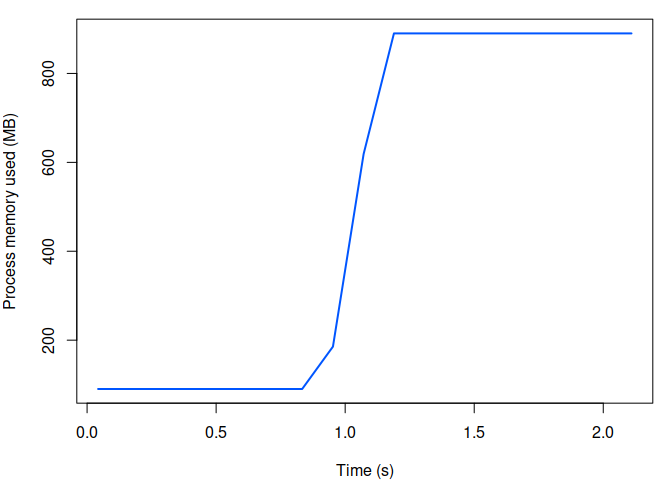
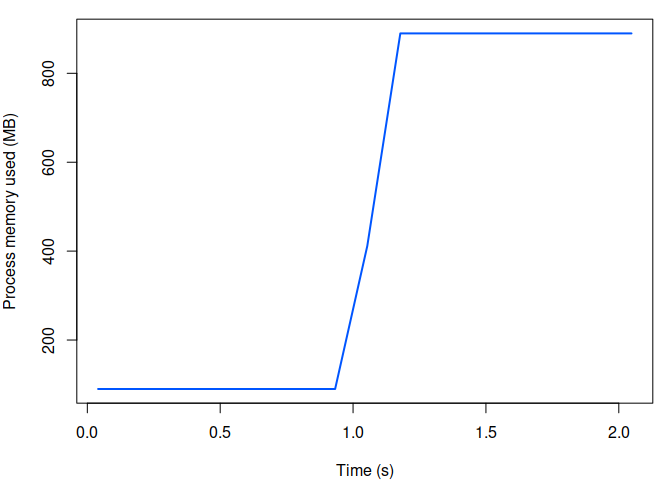
Use CRAN version of ps

diff --git a/README.md b/README.md
@@ -12,19 +12,6 @@ status](https://github.com/mrc-ide/memprof/actions/workflows/R-CMD-check.yaml/ba
 Evaluate an R expression whilst monitoring the process or your system
 memory over time.
 
-## Requirements
-
-This requires the development version of `ps` to render the plot with
-accurate numbers for memory use if monitoring a process and not the
-whole system. At time of writing CRAN version of `ps` reports memory
-size from `ps_memory_info` in pages, development version reports in
-bytes. Install the development version using
-
-``` r
-# install.packages("remotes")
-remotes::install_github("r-lib/ps")
-```
-
 ## Installation
 
 You can install the development version of memprof from
